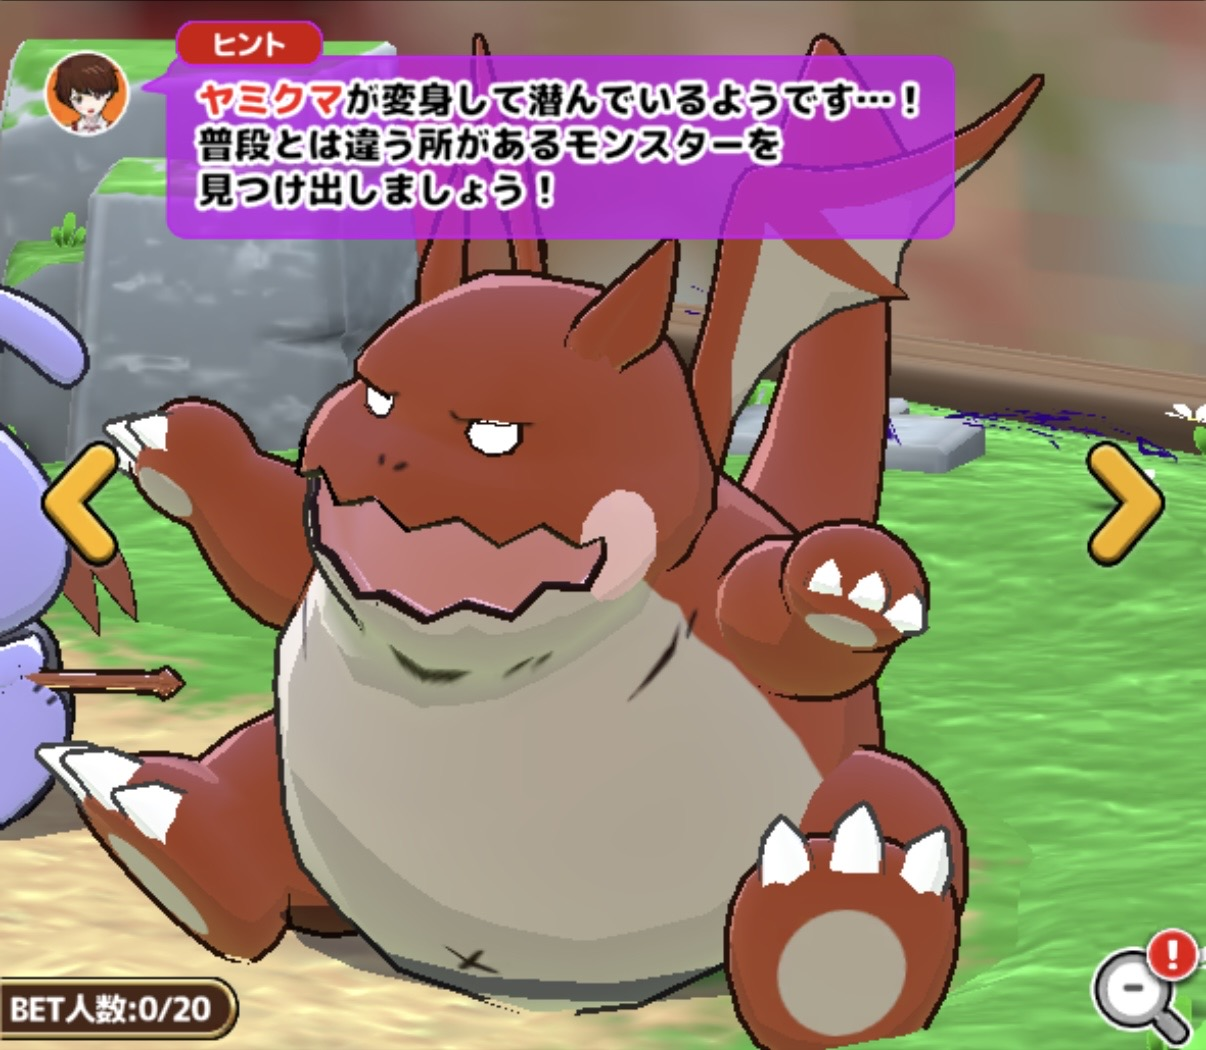
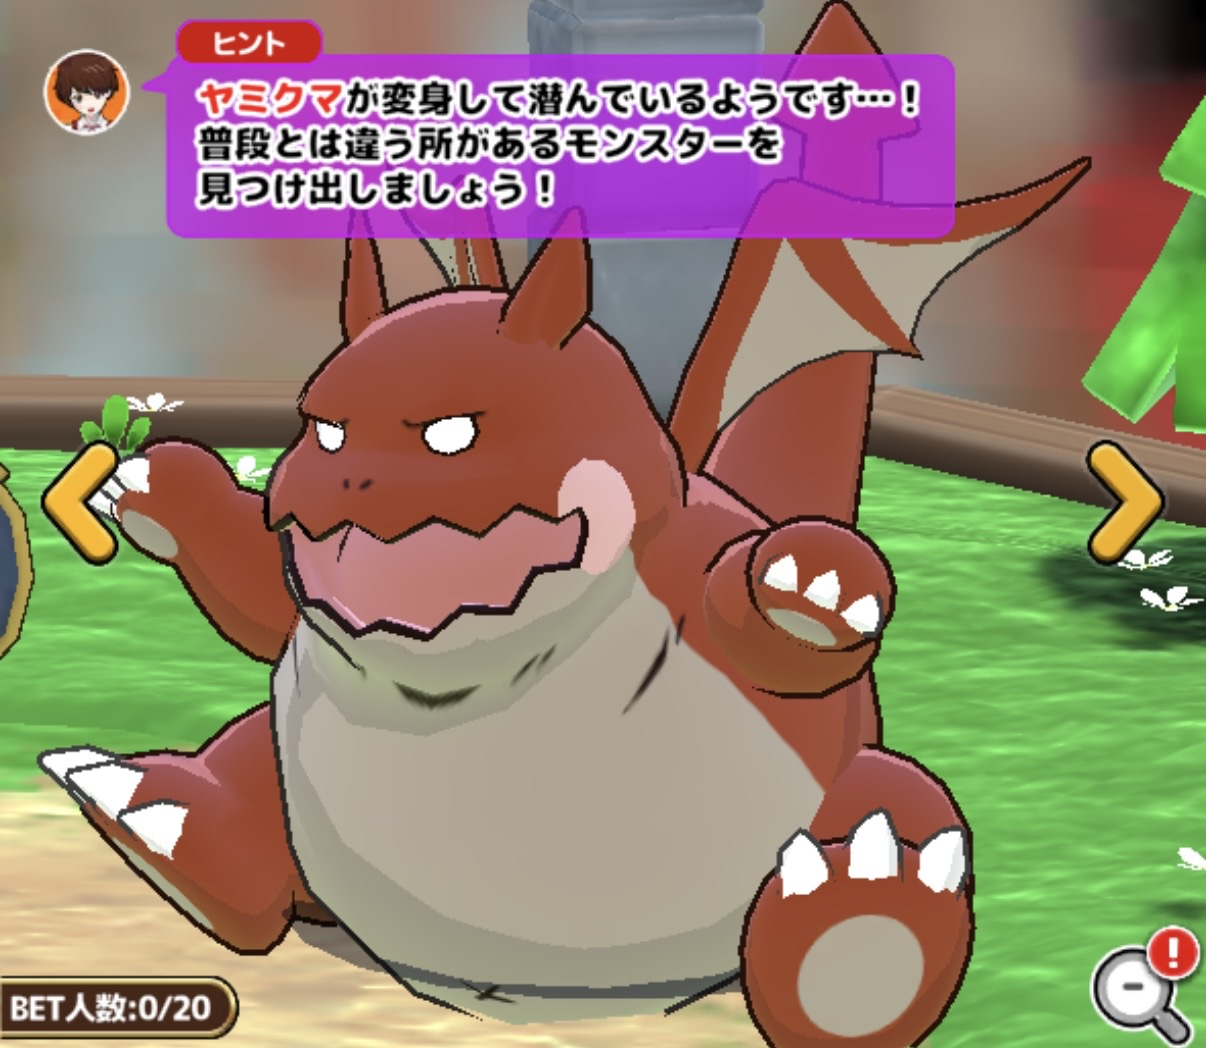
情報更新

diff --git a/index.html b/index.html
@@ -37,7 +37,7 @@
   <link rel="preconnect" href="https://fonts.googleapis.com">
   <link rel="preconnect" href="https://fonts.gstatic.com" crossorigin>
   <link href="https://fonts.googleapis.com/css2?family=Dela+Gothic+One&family=Zen+Antique&family=Noto+Sans+JP:wght@400;500;700;900&display=swap" rel="stylesheet">
-  <link rel="stylesheet" href="style.css?v=0.2.6">
+  <link rel="stylesheet" href="style.css?v=0.2.7">
 </head>
 <body>
 
@@ -213,9 +213,9 @@
     </svg>
   </div>
 
-  <script src="data-normal.js?v=0.2.6" defer></script>
-  <script src="data-anomaly.js?v=0.2.6" defer></script>
-  <script src="script.js?v=0.2.6" defer></script>
+  <script src="data-normal.js?v=0.2.7" defer></script>
+  <script src="data-anomaly.js?v=0.2.7" defer></script>
+  <script src="script.js?v=0.2.7" defer></script>
   <script src="url-change-notice.js?v=0.0.3"></script>
 </body>
 </html>

diff --git a/data-anomaly.js b/data-anomaly.js
@@ -113,7 +113,7 @@ const ANOMALY_DATA = {
     {
       note: "尻尾",
       point: "尻尾がない。",
-      compareIndex: 1
+      compareIndex: 3
     },
   ],
   m07: [
